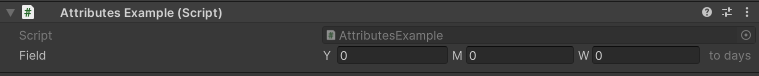
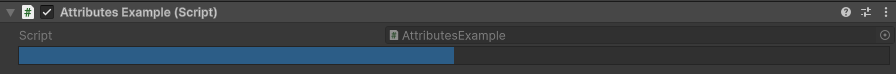
Updated How to use and Validate Attribute docs

diff --git a/docs/source/GettingStarted/howtouse.rst b/docs/source/GettingStarted/howtouse.rst
@@ -48,35 +48,35 @@ For more details about unity serialization see `this <https://docs.unity3d.com/M
 Attribute Order
 ---------------
 
-The logic of all attributes is executed in the order they are written (left to right), meaning the last attribute can override the functionality of the previous attribute if the functionality is similar.
-In the following example the :doc:`../Attributes/NumericalAttributes/timefield` will execute before the :doc:`../Attributes/DecorativeAttributes/suffix` 
-meaning the suffix will fail to add because of how the :doc:`../Attributes/NumericalAttributes/timefield` is drawn::
+The logic of all attributes is executed in the order they are written (left to right), meaning an attribute might not work due to the way they are applied.
+In the following example the :doc:`../Attributes/NumericalAttributes/progressbar` will execute before the :doc:`../Attributes/DecorativeAttributes/hidelabel` 
+causing the label not be removed because the :doc:`../Attributes/DecorativeAttributes/hidelabel` looks for a property field label but it gets a progress bar element instead::
 
 	using UnityEngine;
 	using EditorAttributes;
 	
 	public class AttributesExample : MonoBehaviour
 	{
-		[TimeField(TimeFormat.YearMonthWeek, ConvertTo.Days), Suffix("to days")]
-		[SerializeField] private int field;
+    	[ProgressBar, HideLabel]
+    	[SerializeField] private int field;
 	}
 
 .. image:: ../Media/HowToUse02.png
 
-To fix this we can change the order by putting the :doc:`../Attributes/NumericalAttributes/timefield` after the :doc:`../Attributes/DecorativeAttributes/suffix` or use the `order` parameter that every attribute has
-to execute the :doc:`../Attributes/DecorativeAttributes/suffix` first, C# will first go through the attributes with the lowest order from left to right then to the ones with the higher order the same way,
-the default order of all attributes is 0::
+To fix this we can change the order by putting the :doc:`../Attributes/NumericalAttributes/progressbar` after the :doc:`../Attributes/DecorativeAttributes/hidelabel` or use the `order` parameter that every attribute has,
+to execute the :doc:`../Attributes/DecorativeAttributes/hidelabel` first. C# will first go through the attributes with the lowest order from left to right then to the ones with the higher order the same way.
+The default order of all attributes is 0::
 
 	using UnityEngine;
 	using EditorAttributes;
 	
 	public class AttributesExample : MonoBehaviour
 	{
-		[TimeField(TimeFormat.YearMonthWeek, ConvertTo.Days), Suffix("to days", order = -1)]
-		[SerializeField] private int field;
+    	[ProgressBar, HideLabel(order = -1)]
+    	[SerializeField] private int progressBar;
 	}
 
-So now the :doc:`../Attributes/DecorativeAttributes/suffix` will be executed first and the :doc:`../Attributes/NumericalAttributes/timefield` will draw the field with the suffix already on it.
+So now the :doc:`../Attributes/DecorativeAttributes/hidelabel` will be executed first and the :doc:`../Attributes/NumericalAttributes/progressbar` will create the progress bar with the label aready hidden.
 
 .. image:: ../Media/HowToUse03.png
 

diff --git a/docs/source/Attributes/MiscellaneousAttributes/validate.rst b/docs/source/Attributes/MiscellaneousAttributes/validate.rst
@@ -8,6 +8,7 @@ Attribute to create custom validation
 	- ``string`` conditionName: The name of the condition to evaluate
 	- `optional`, ``MessageMode`` severety: The severety of the failed validation
 	- `optional`, ``bool`` buildKiller: Throws an error during build time and cancels it if validation fails
+	- `optional`, ``bool`` applyToCollection: Validate the whole collection instead of individual items
 
 Example::
 
@@ -27,6 +28,25 @@ Example::
 	}
 
 .. image:: ../../Media/Validate01.png
+
+By default the validation will be applied to the collection itself, but you can also make it apply to each individual item in the collection by setting the *applyToCollection* parameter to ``false``.
+Now if you add a ``int`` parameter to a validation function it will give you access to the index of the current collection item for you to validate::
+
+	using UnityEngine;
+	using EditorAttributes;
+	
+	public class AttributesExample : MonoBehaviour
+	{
+    	[Validate("The value must be positive", nameof(CheckNegative), applyToCollection: false)]
+    	[SerializeField] private int[] intArray;
+
+    	private bool CheckNegative(int index) => intArray[index] < 0;
+	}
+
+
+This will make the validation check each item in the collection and throw an error for each failed item instead of just one error for the whole collection.
+
+.. image:: ../../Media/Validate06.png
 
 If you want to do more advanced validation like doing multiple validations on one field you can use a function returning a :doc:`../../Scripting API/validationcheck`::
 

diff --git a/docs/source/Scripting API/propertydrawerbase.rst b/docs/source/Scripting API/propertydrawerbase.rst
@@ -193,6 +193,20 @@ Declaration::
 	
 **Returns:** ``bool``: True if the serialized property type is a flagged enum
 
+GetCollectionElementIndex(SerializedProperty)
+^^^^^^^^^^^^^^^^^^^^^^^^^^^^^^^^^^^^^^^^^^^^^
+
+Get the element index of the property in a collection.
+
+Declaration::
+
+	public static int GetCollectionElementIndex(SerializedProperty property)
+	
+**Parameters:**
+	- ``SerializedProperty`` property: The serialized property
+
+**Returns:** ``int``: The index of the property if in an collection, else -1
+
 DisplayErrorBox(VisualElement, HelpBox)
 ^^^^^^^^^^^^^^^^^^^^^^^^^^^^^^^^^^^^^^^
 
